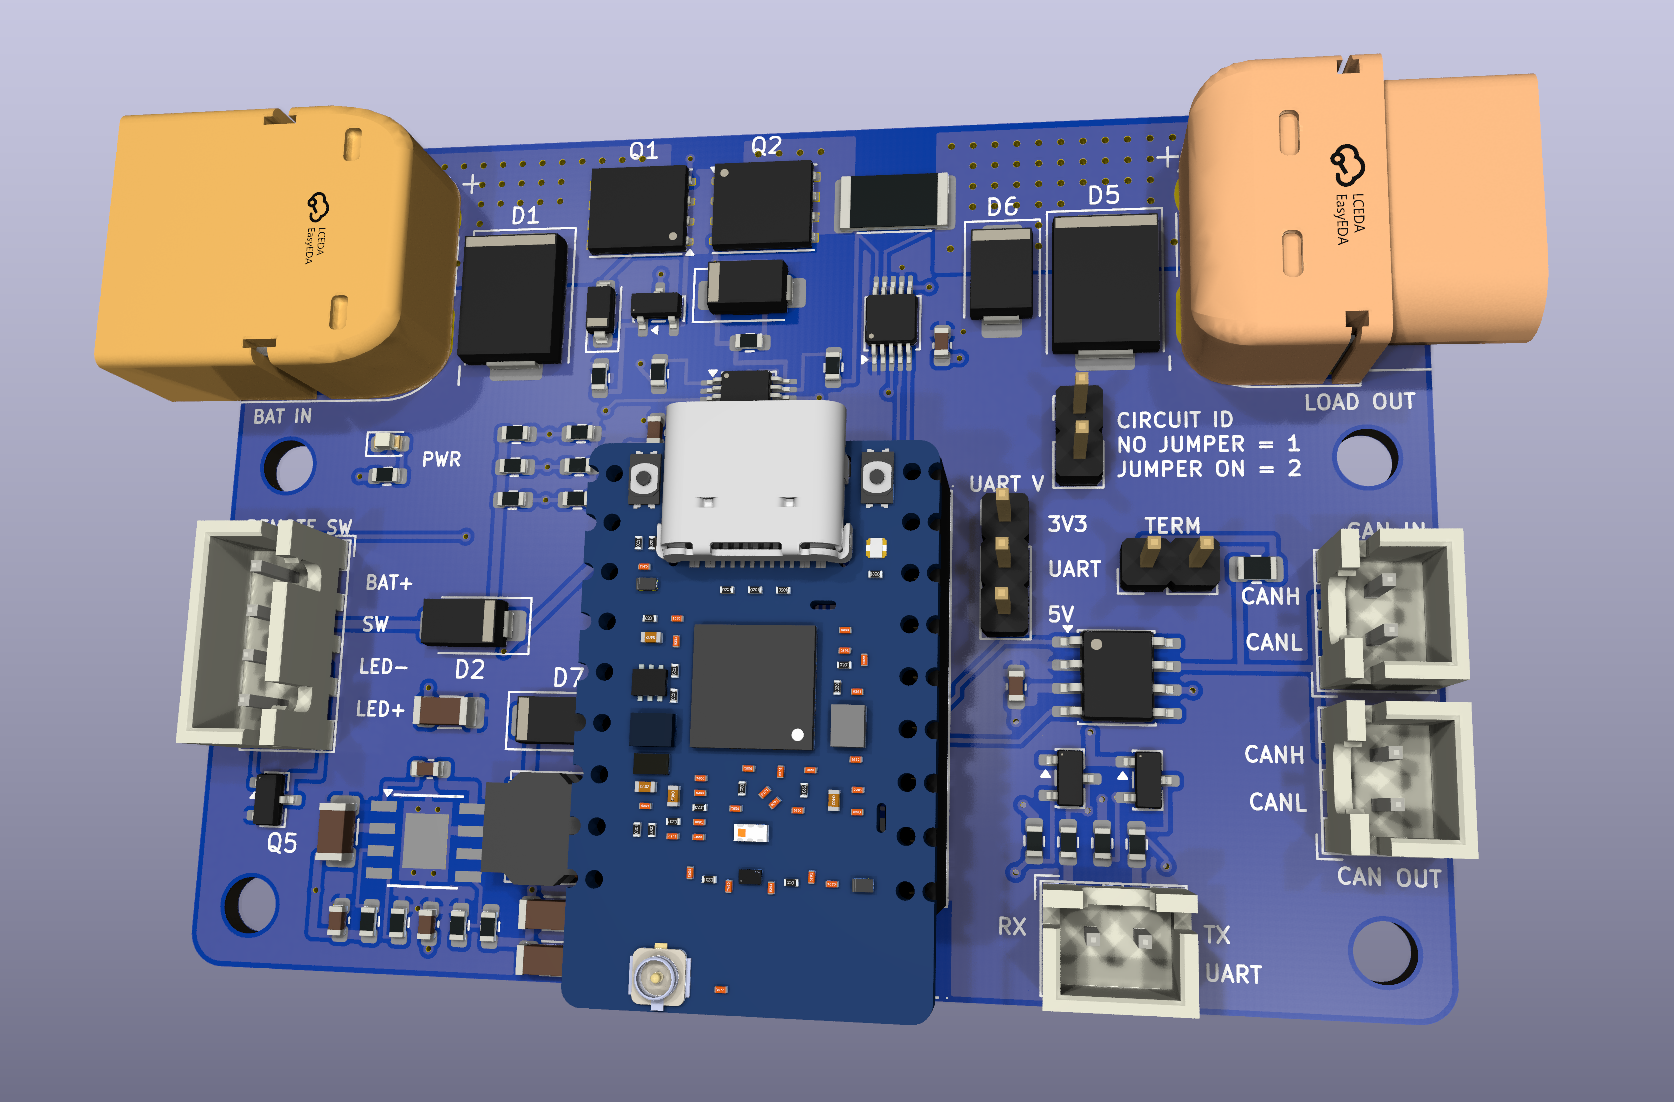
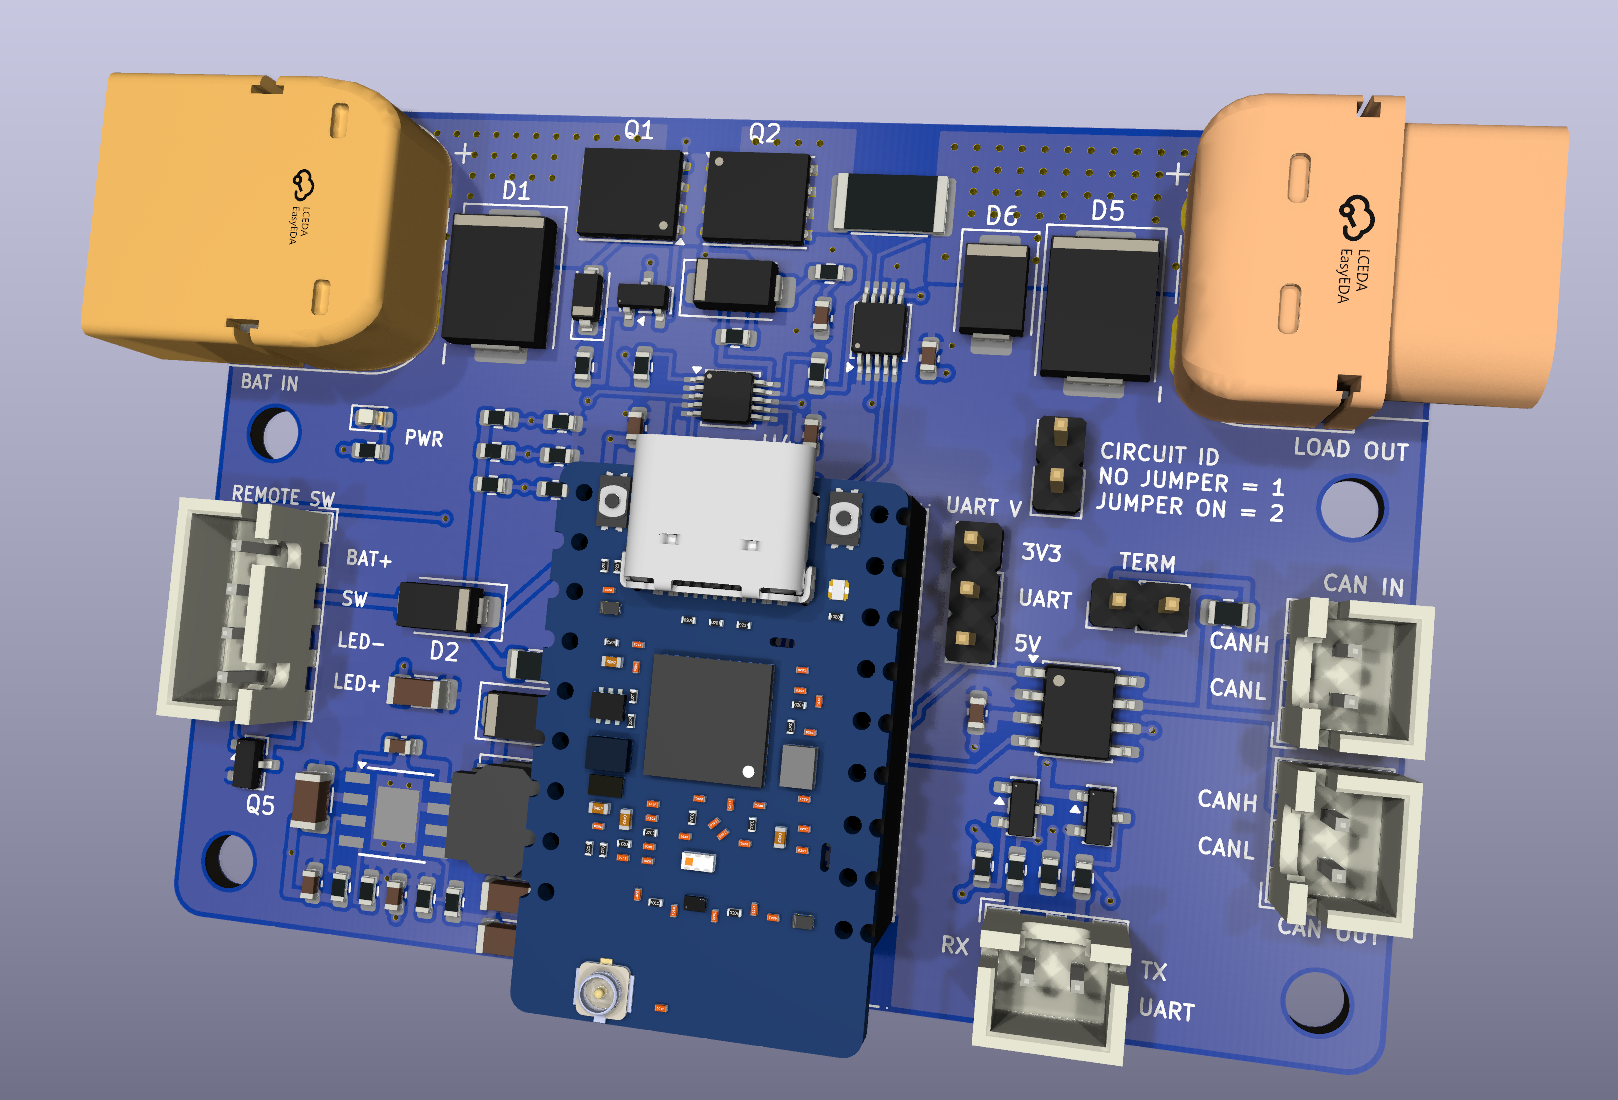
Expand the README with board renders, wiring and specs (#11)
Front and back renders, what the board does, how it wires into a droid
(including the required upstream fuse), specifications, connectors and
jumpers, remote-switch wiring, pre-power-up notes, project status, repo
layout, design workflow and ordering notes. Updated renders of the
70 x 50 mm board.

diff --git a/README.md b/README.md
@@ -1,16 +1,150 @@
 # DroidPowerSense
 
-An inline battery power sensor and protection board for droid builds. It sits between the battery
-and the rest of the droid (before the fuses), switches and protects the passthrough power, and
-reports battery voltage and current over CAN FD and UART.
+An inline battery power switch, protection and telemetry board for droid builds. It sits between the
+battery and the rest of the droid, switches the main power from a small remote switch, protects the
+droid's electronics, and reports battery voltage and current over CAN FD and UART.
 
-- 9-32 V batteries (12 V lead-acid, 18 V / 20 V Max tool packs, 24 V LiPo / LiFePO4)
-- < 1 A to 30 A continuous / 60 A peak, XT60 in and out
-- Zero drain while the remote low-power switch is off (back-to-back MOSFETs under an LM5060)
-- Reverse-polarity, TVS, flyback, over/under-voltage and short-circuit protection
-- INA226 current/voltage monitor on a 1 mΩ shunt
-- Waveshare ESP32-C5-Zero (CAN FD, firmware in Rust), CAN FD + level-shifted UART
-- Circuit ID jumper for droids with two circuits (one board each)
+<p align="center">
+  <img src="PCB/assets/DroidPowerSense-v1-front.png" alt="DroidPowerSense v1.0, front: XT60 in and out along the top, the ESP32-C5 module in the middle, CAN, UART and jumpers on the right" width="49%">
+  <img src="PCB/assets/DroidPowerSense-v1-rear.png" alt="DroidPowerSense v1.0, back: the marked heatsink area under the power stage" width="49%">
+</p>
 
-Hardware design, requirements and decisions: [PCB/README.md](PCB/README.md).
-Firmware (`src/`) is not started yet.
+## What it does
+
+- **Power switch with zero drain.** Back-to-back MOSFETs under an LM5060 controller switch up to
+  30 A continuous (60 A peak). A small remote switch turns the droid on and off;
+  with the switch off, the fitted battery draws nothing beyond semiconductor leakage (< 1 µA).
+- **Works with common droid batteries:** 9-32 V, for example 12 V lead-acid, 18 V / 20 V Max
+  power-tool packs, and 24 V LiPo / LiFePO4.
+- **Protection:** reverse battery, input and output surge (TVS), motor flyback, under- and
+  over-voltage cutoff, and an overcurrent / short-circuit trip. The turn-on is soft-started so large
+  motor-controller capacitors don't cause a current spike.
+- **Telemetry:** battery voltage (readable even with the load switched off), load voltage and
+  current (±164 A range, 5 mA resolution), reported over **CAN FD** (daisy-chainable) and a
+  level-shifted **UART** (3.3 V or 5 V).
+- **Lit remote switches:** supports plain switches and switches with a built-in light that is on
+  whenever the droid is on. Firmware can blink it.
+- **Two-circuit droids:** a circuit ID jumper lets two boards (one per circuit) identify themselves.
+- **Serviceable:** the ESP32-C5 module plugs into sockets and programs over its own USB-C.
+
+## How it fits in a droid
+
+```
+Battery ── fuse (30-50 A, required) ── XT60 ─▶ BAT IN [ DroidPowerSense ] LOAD OUT ─▶ XT60 ── droid fuses / motor controllers / electronics
+                                                          │      │     │
+                                         remote switch ───┘      │     └── CAN FD in / out (daisy chain)
+                                                                 └──────── UART (3.3 V or 5 V)
+```
+
+- **Fit a fast 30-50 A fuse (blade or MIDI) in the battery lead, before the board.** The board is an
+  electronic circuit breaker, not a current limiter: only a fuse clears a dead short quickly.
+- Up to **4.7 mF** of capacitance on LOAD OUT at 32 V (more at lower battery voltages).
+- One board per power circuit.
+
+## Specifications
+
+| | |
+|---|---|
+| Input voltage | 9-32 V (hardware under-voltage cutoff ≈ 7.5 V, over-voltage cutoff ≈ 38 V) |
+| Current | 30 A continuous, 60 A peak |
+| Power connectors | XT60PW-M in (mates with the battery's female XT60), XT60PW-F out |
+| Off-state drain | < 1 µA with the remote switch open |
+| Current / voltage sensing | TI INA237 on a 1 mΩ shunt: ±164 A range, 5 mA resolution; also measures the LOAD OUT voltage |
+| Battery voltage sensing | ESP32-C5 ADC through a ÷ 11 divider |
+| MCU | Waveshare ESP32-C5-Zero-M (Wi-Fi 6, BLE 5, CAN FD), on 2.54 mm sockets |
+| Comms | CAN FD (TI TCAN334G, 2 × JST-XH, jumper termination); UART (JST-XH, 3.3 V / 5 V) |
+| Board | 70 × 50 mm, 6 layers, 1.6 mm, 2 oz outer / 1 oz inner copper, components on one side |
+| Mounting | 4 × M3 holes |
+
+## Connectors and jumpers
+
+Every connector has its pin functions printed on the board next to each pin.
+
+| Ref | Silkscreen | Type | Pins / settings |
+|---|---|---|---|
+| J1 | BAT IN | XT60PW-M | + / − from the battery (through the fuse) |
+| J2 | LOAD OUT | XT60PW-F | + / − to the droid |
+| J3 | REMOTE SW | JST-XH 4-pin | `BAT+`, `SW`, `LED-`, `LED+` (see below) |
+| J5 / J6 | CAN IN / CAN OUT | JST-XH 2-pin | `CANH`, `CANL`; wired in parallel, so IN and OUT are a cabling convention |
+| J8 | UART | JST-XH 2-pin | `RX` (into the board), `TX` (out of the board) |
+| J7 | TERM | 2-pin jumper | Fitted = 120 Ω CAN termination. Fit only on the boards at the two ends of the bus. |
+| J9 | UART V | 3-pin jumper | `3V3`-`UART` = 3.3 V UART; `UART`-`5V` = 5 V UART |
+| J4 | CIRCUIT ID | 2-pin jumper | No jumper = circuit 1, jumper on = circuit 2 |
+
+The three jumper shunts (Würth 60900213421) are in the BOM.
+
+### Wiring the remote switch (J3)
+
+| J3 pin | Plain switch | Lit switch, 3-terminal (+ / ACC / GND) | Lit switch, separate LED terminals |
+|---|---|---|---|
+| `BAT+` | one side | + | one contact |
+| `SW` | other side | ACC (output) | other contact |
+| `LED-` | — | GND | LED − |
+| `LED+` | — | — | LED + |
+
+- **3-terminal lit switches** power their light from the battery, so buy one rated for your pack
+  (12 V for lead-acid; 24 V or "12-24 V" for 18-24 V packs).
+- **Switches with separate LED terminals:** buy the **5 V or 6 V** LED version. The board powers it
+  from its own 5 V, so the same switch works on any battery.
+
+## Before you power it up
+
+- **Fuse the battery lead** (30-50 A, fast) ahead of BAT IN.
+- **Heatsink (optional):** at 30 A continuous the power stage runs warm. The marked area on the back
+  takes a small stick-on heatsink, but **only with an electrically insulating thermal pad**. Bare
+  metal would short the power nets underneath and bypass the switch.
+- **Secure the module** in a droid that vibrates: a dab of hot glue or a cable tie at the antenna end.
+  It stands about 11 mm tall on its sockets.
+- **Firmware is part of the protection.** Overcurrent cutoff between 30 A and the hardware trip
+  point, and never cutting power while the motors are regenerating, are firmware's job; see
+  [docs/firmware-requirements.md](docs/firmware-requirements.md).
+
+## Project status
+
+| Area | Status |
+|---|---|
+| Hardware design | Complete and reviewed: all design and layout checks pass, power stage verified in simulation |
+| PCB | Routed; Gerbers, drills, BOM and placement in [`PCB/production/`](PCB/production/). Final silkscreen and graphics pending before the first order. |
+| Firmware | Not started (Rust on the ESP32-C5). Requirements captured in [docs/firmware-requirements.md](docs/firmware-requirements.md). |
+| Bench testing | Not started. The first-board checklist is in [PCB/README.md](PCB/README.md#bench-checklist-first-board). |
+
+## Repository layout
+
+| Path | Contents |
+|---|---|
+| [`PCB/README.md`](PCB/README.md) | Hardware design: requirements, circuit, decisions, layout, accepted risks and bench checklist |
+| [`PCB/stackup/`](PCB/stackup/) | The electrical design in [Stackup](https://github.com/stackup-eda/stackup) KDL (`board.kdl`, `parts.kdl`); there are no KiCad schematics |
+| `PCB/DroidPowerSense.kicad_pcb` | The KiCad 10 board, synced from the Stackup design |
+| [`PCB/production/`](PCB/production/) | Fab files: Gerbers and drills, purchasing BOM, placement file |
+| [`PCB/datasheets/`](PCB/datasheets/) | Manufacturer datasheets, with source and hash in `manifest.json` |
+| [`PCB/libraries/`](PCB/libraries/) | Custom footprints and 3D models (XT60PW, socketed ESP32 module) |
+| [`scripts/spice/`](scripts/spice/README.md) | ngspice simulations of the power switch and UART level shifters, and an SOA checker |
+| [`docs/firmware-requirements.md`](docs/firmware-requirements.md) | What the firmware must do for the hardware, pin map and peripheral setup |
+| `ci/` | The pinned Stackup CLI and the PCB sync check used by CI |
+| `src/` | Firmware (Rust, ESP32-C5), not started yet |
+
+## Working on the design
+
+The design is checked with the Cargo-pinned Stackup CLI and KiCad 10 (`kicad-cli`):
+
+```sh
+cargo run --locked --manifest-path ci/stackup/Cargo.toml -- check PCB/stackup/board.kdl --locked
+python3 scripts/spice/power_switch_sim.py     # power switch, all scenarios
+python3 scripts/spice/uart_shifter_sim.py     # UART level shifters
+python3 scripts/spice/test_soa.py             # SOA checker unit tests
+```
+
+- After any change to the KDL, sync the PCB from Stackup (see [PCB/README.md](PCB/README.md)) and
+  commit the board with the KDL. CI fails if they drift apart.
+- Refill the pours and regenerate `PCB/production/` after any board change; the commands are in
+  [PCB/README.md](PCB/README.md).
+- Changes go through pull requests; history is kept linear (rebase merges).
+
+## Ordering
+
+- **Fab:** 6 layers, 1.6 mm, **2 oz outer / 1 oz inner** copper; minimum track and spacing 0.2 mm.
+  Don't order it with 1 oz outer copper: the 30 A path needs the 2 oz.
+- **Parts:** the BOM lists Mouser and DigiKey numbers (LCSC where available). The XT60 connectors
+  (Amass) and the ESP32-C5-Zero-M module (Waveshare) come from their own channels.
+- **Hand assembly:** the connectors, jumpers, module sockets and module are through-hole and
+  hand-soldered; the placement file lists only the 67 surface-mount parts.
